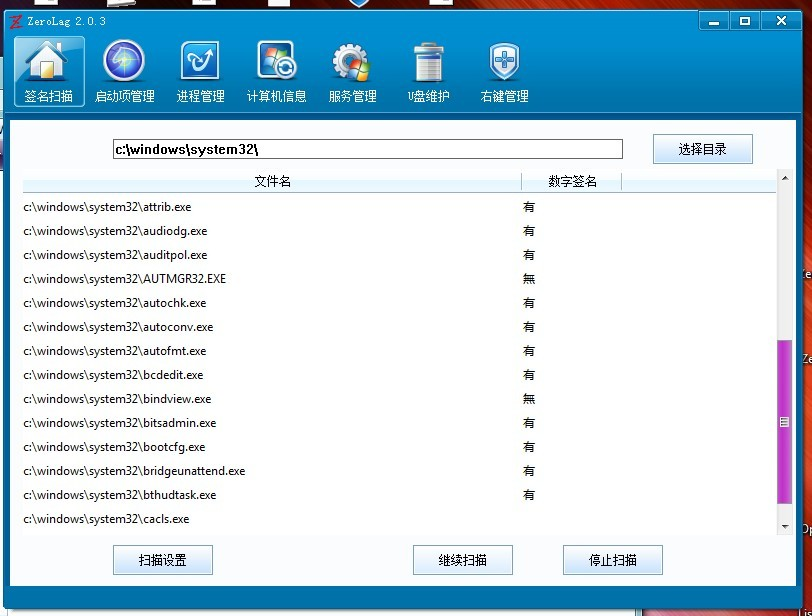
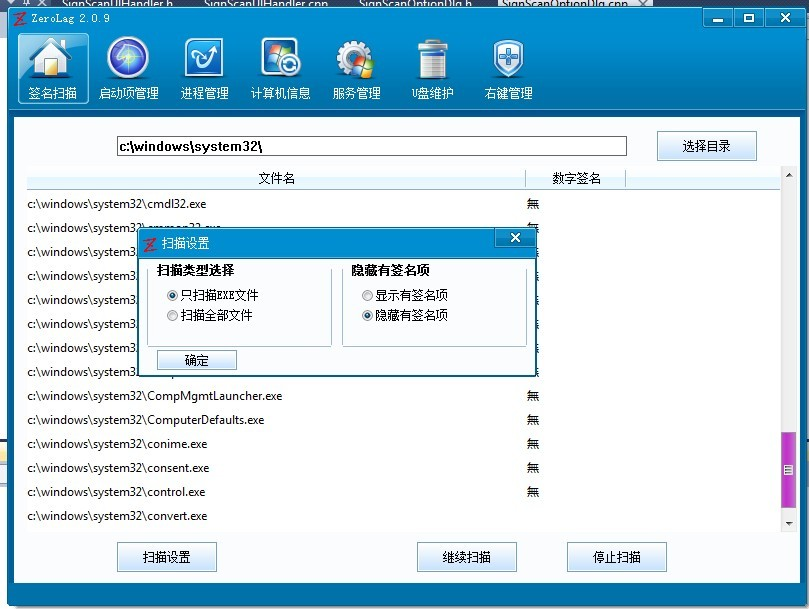
????????

Changed region(s): [[0.0, 0.0, 1.0, 1.0]]

diff --git a/ZeroLag2/ZeroLag/SignScanOptionDlg.h b/ZeroLag2/ZeroLag/SignScanOptionDlg.h
@@ -6,6 +6,7 @@ class CSignScanOptionDlg : public CKuiDialogImpl<CSignScanOptionDlg>
 {
 public:
 	CSignScanOptionDlg(void);
+	CSignScanOptionDlg(BOOL xSignScanHideHave,int xSignScanFileType);
 	~CSignScanOptionDlg(void);
 
 	void OnSubmit();
@@ -13,6 +14,9 @@ public:
 	LRESULT OnInitDialog( HWND hDlg, LPARAM lParam );
 	void OnSysCommand(WPARAM wParam, CPoint pt );
 	void OnBkBtnClose();
+
+	BOOL SignScanHideHave;
+	int SignScanFileType;
 
 	KUI_NOTIFY_MAP(IDC_RICHVIEW_WIN)
 		KUI_NOTIFY_ID_COMMAND(11101, OnSubmit)

diff --git a/ZeroLag2/ZeroLag/SignScanUIHandler.cpp b/ZeroLag2/ZeroLag/SignScanUIHandler.cpp
@@ -147,8 +147,12 @@ void CSignScanUIHandler::OnSignScanEnd()
 
 void CSignScanUIHandler::OnSignScanOption()
 {
-	CSignScanOptionDlg dlg;
-	dlg.DoModal();
+	CSignScanOptionDlg dlg(SignScanHideHave,SignScanFileType);
+	if (dlg.DoModal() == IDOK)
+	{
+		SignScanFileType = dlg.SignScanFileType;
+		SignScanHideHave = dlg.SignScanHideHave;
+	}
 }
 
 void SignScanThread( LPVOID param )
